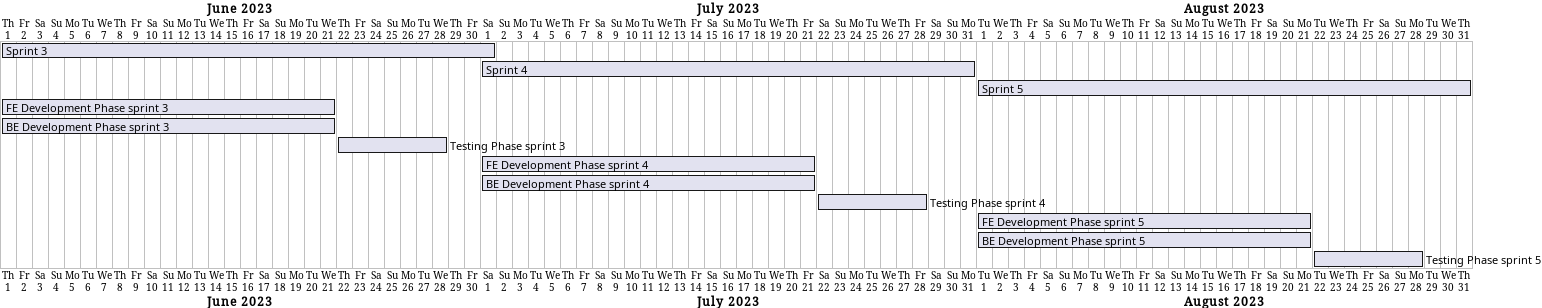
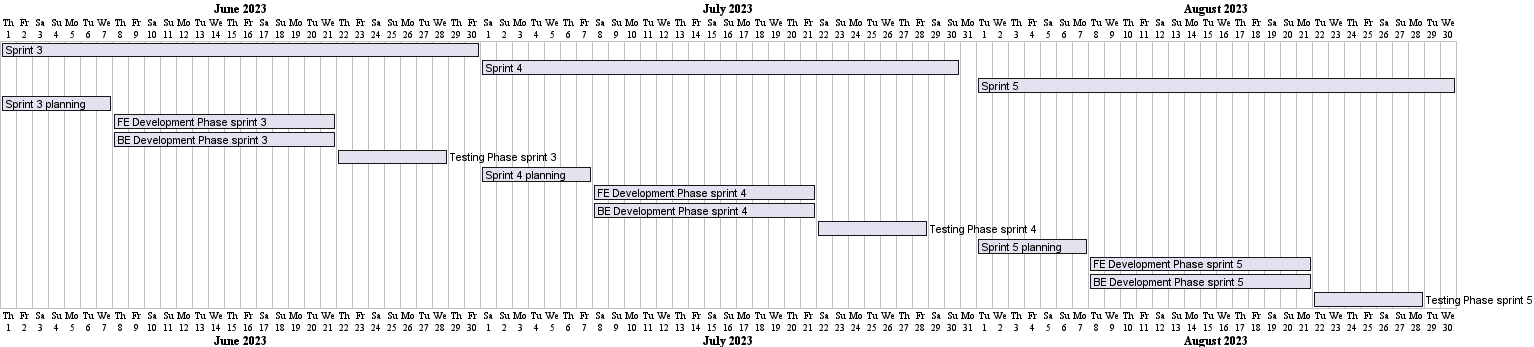
fix timeline

Changed region(s): [[0.0, 0.0, 1.0, 1.0]]

diff --git a/proposal/latex/proposal.tex b/proposal/latex/proposal.tex
@@ -475,7 +475,7 @@ Pertanyaan “Dalam mencari dan menemukan barang apakah anda terkadang merasa ra
 \subsubsection*{3.2.2 \textit{Timeline}}
 \addcontentsline{toc}{subsubsection}{\protect\numberline{}3.2.2 \textit{Timeline}}
 
-Karena proyek ini menggunakan \textit{agile} sebagai \textbf{SDLC} yang digunakan, maka \textit{timeline} ini dipisah menjadi satu bulan pertama untuk \textit{planning} dan lima bulan yangd dipisah menjadi lima \textit{sprint} yang berbeda. Dalam satu \textit{sprint} akan dipisah lagi menjadi tiga minggu untuk masa \textit{development frontend} dan \textit{backend} secara bersamaan dan satu minggu akan dipakai untuk masa \textit{testing} untuk memastikan fitur yang di\textit{develop} tidak menggangu fitur yang sudah ada dan bisa digunakan.
+Karena proyek ini menggunakan \textit{agile} sebagai \textbf{SDLC} yang digunakan, maka \textit{timeline} ini dipisah menjadi satu bulan pertama untuk \textit{planning} dan lima bulan yangd dipisah menjadi lima \textit{sprint} yang berbeda. Dalam satu \textit{sprint} akan dipisah lagi menjadi satu minggu pertama untuk melakukan \textit{spring planning}, dua minggu untuk masa \textit{development frontend} dan \textit{backend} secara bersamaan dan satu minggu akan dipakai untuk masa \textit{testing} untuk memastikan fitur yang di\textit{develop} tidak menggangu fitur yang sudah ada dan bisa digunakan.
 
 \begin{figure}[h]
     \includegraphics[width=13cm]{sprint timeline.png}
